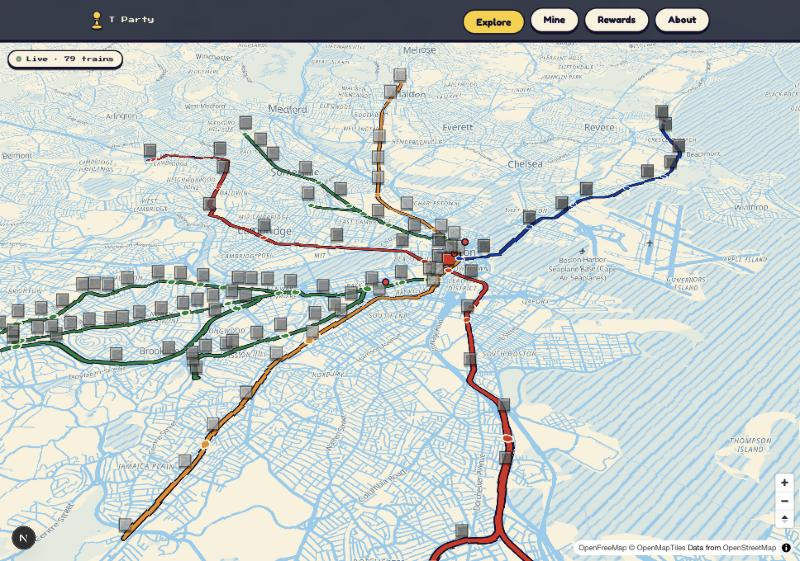
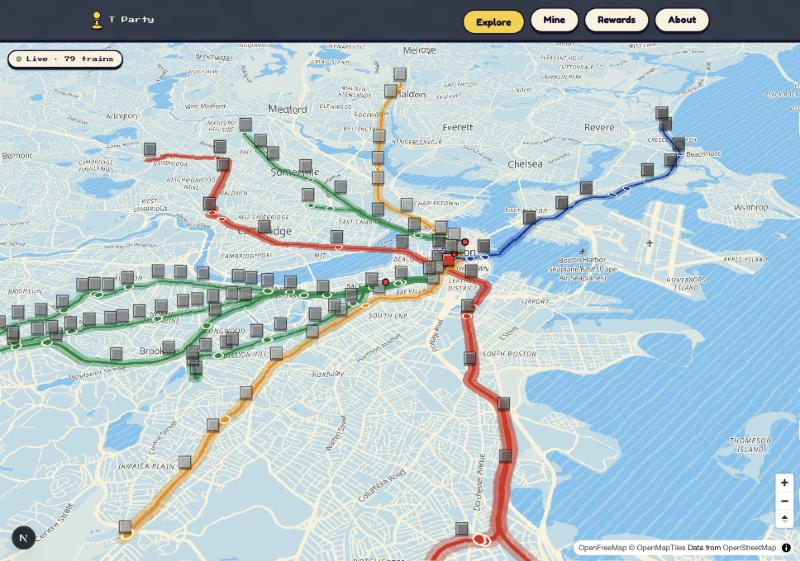
Explore: illustrated-map base, highlighter T lines, hospital stickers
- Base: tinted land with paper streets, deeper-tone scribbled water, flat
  building footprints (BUILDINGS_3D switch), all from one token colour.
- T lines: wide translucent highlighter stroke plus a solid core.
- Stickers: hospitals from the tiles' poi layer with a drawn cross badge.

diff --git a/src/lib/map.ts b/src/lib/map.ts
@@ -63,50 +63,60 @@ function blend(from: string, to: string, amount: number): string {
 const BASE_TONE = "--sky";
 
 /**
- * The base map: OpenFreeMap streets redrawn as a one-colour line drawing on paper, with 3D buildings.
+ * Buildings as raised 3D blocks (true) or flat footprints (false).
+ * Flat keeps the base calm, like an illustrated city map, so the 3D things we float on top stand out.
+ */
+const BUILDINGS_3D = false;
+
+/**
+ * The base map, in the manner of an illustrated city map: land is a soft block of one colour,
+ * streets are the paper showing through, water is a deeper shade of the same colour.
  * Every colour comes from a token in globals.css, so a theme change restyles the map too.
  */
 export async function loadMapStyle(): Promise<StyleSpecification> {
   const style: StyleSpecification = await fetch(BASE_STYLE).then((res) => res.json());
   const paper = tokenColor("--paper");
-  const wash = blend("--paper", BASE_TONE, 0.45); // water
-  const tint = blend("--paper", BASE_TONE, 0.14); // parks, buildings
-  const stroke = blend("--paper", BASE_TONE, 0.7); // streets
-  const text = blend(BASE_TONE, "--ink", 0.4); // labels: the same colour, darkened so they stay readable
+  const land = blend("--paper", BASE_TONE, 0.4);
+  const park = blend("--paper", BASE_TONE, 0.22);
+  const block = blend("--paper", BASE_TONE, 0.58); // building footprints
+  const water = blend("--paper", BASE_TONE, 0.85);
+  const text = blend(BASE_TONE, "--ink", 0.6); // labels: the same colour, darkened so they stay readable
 
   style.layers = style.layers.flatMap((layer): LayerSpecification[] => {
     const sourceLayer = "source-layer" in layer ? layer["source-layer"] : undefined;
 
-    if (layer.type === "background") return [{ ...layer, paint: { "background-color": paper } }];
+    if (layer.type === "background") return [{ ...layer, paint: { "background-color": land } }];
 
     if (layer.type === "fill") {
-      if (sourceLayer === "water") return [{ ...layer, paint: { "fill-color": wash } }];
-      if (sourceLayer === "park") return [{ ...layer, paint: { "fill-color": tint } }];
-      // Flat buildings are replaced by a 3D layer.
+      if (sourceLayer === "water") return [{ ...layer, paint: { "fill-color": water } }];
+      if (sourceLayer === "park") return [{ ...layer, paint: { "fill-color": park } }];
       if (sourceLayer === "building")
-        return [
-          {
-            id: "building-3d",
-            type: "fill-extrusion" as const,
-            source: layer.source,
-            "source-layer": "building",
-            minzoom: 13,
-            paint: {
-              "fill-extrusion-color": tint,
-              "fill-extrusion-height": ["coalesce", ["get", "render_height"], 6],
-              "fill-extrusion-base": ["coalesce", ["get", "render_min_height"], 0],
-              "fill-extrusion-opacity": 0.92,
-            },
-          },
-        ];
-      // Land-use patches would only add noise to a line drawing.
+        return BUILDINGS_3D
+          ? [
+              {
+                id: "building-3d",
+                type: "fill-extrusion" as const,
+                source: layer.source,
+                "source-layer": "building",
+                minzoom: 13,
+                paint: {
+                  "fill-extrusion-color": block,
+                  "fill-extrusion-height": ["coalesce", ["get", "render_height"], 6],
+                  "fill-extrusion-base": ["coalesce", ["get", "render_min_height"], 0],
+                  "fill-extrusion-opacity": 0.92,
+                },
+              },
+            ]
+          : [{ ...layer, minzoom: 13, paint: { "fill-color": block } }];
+      // Land-use patches would only add noise.
       return [];
     }
 
     if (layer.type === "line") {
       if (sourceLayer === "boundary" || layer.id.endsWith("_casing") || layer.id.endsWith("dashline")) return [];
-      if (sourceLayer === "waterway") return [{ ...layer, paint: { "line-color": wash } }];
-      return [{ ...layer, paint: { ...layer.paint, "line-color": stroke, "line-opacity": 1 } }];
+      if (sourceLayer === "waterway") return [{ ...layer, paint: { "line-color": water } }];
+      // Streets are the paper showing through the coloured land.
+      return [{ ...layer, paint: { ...layer.paint, "line-color": paper, "line-opacity": 1 } }];
     }
 
     if (layer.type === "symbol") {
@@ -118,7 +128,7 @@ export async function loadMapStyle(): Promise<StyleSpecification> {
     return [layer];
   });
 
-  // The 3D buildings sit above the streets but below the labels: move them just before the first label.
+  // 3D buildings sit above the streets but below the labels: move them just before the first label.
   const buildings = style.layers.filter((layer) => layer.id === "building-3d");
   const rest = style.layers.filter((layer) => layer.id !== "building-3d");
   const firstLabel = rest.findIndex((layer) => layer.type === "symbol");
@@ -138,9 +148,9 @@ export function addDoodleTextures(map: MapLibreMap) {
   canvas.width = canvas.height = size;
   const ctx = canvas.getContext("2d", { willReadFrequently: true });
   if (!ctx || map.hasImage("scribble")) return;
-  ctx.fillStyle = blend("--paper", BASE_TONE, 0.22);
+  ctx.fillStyle = blend("--paper", BASE_TONE, 0.85);
   ctx.fillRect(0, 0, size, size);
-  ctx.strokeStyle = blend("--paper", BASE_TONE, 0.75);
+  ctx.strokeStyle = blend("--paper", BASE_TONE, 0.55);
   ctx.lineCap = "round";
   // Slanted strokes of uneven weight, repeated past the edges so the tile joins up with itself.
   [0, 13, 29, 41, 54].forEach((offset, i) => {
@@ -157,32 +167,94 @@ export function addDoodleTextures(map: MapLibreMap) {
 }
 
 /**
+ * Things drawn on top of the realistic base, sticker style. First one: hospitals, straight from
+ * the map's own place data, each with a little hand-drawn cross badge. Call once the map has loaded.
+ * Add more kinds (schools, parks, libraries) the same way: draw a badge, filter the "poi" layer by class.
+ */
+export function addStickerLayers(map: MapLibreMap) {
+  if (map.getLayer("sticker-hospital")) return;
+  const size = 56;
+  const canvas = document.createElement("canvas");
+  canvas.width = canvas.height = size;
+  const ctx = canvas.getContext("2d", { willReadFrequently: true });
+  if (!ctx) return;
+  // A slightly crooked paper square with an ink edge and a red cross.
+  ctx.translate(size / 2, size / 2);
+  ctx.rotate(-0.08);
+  ctx.lineJoin = "round";
+  ctx.lineWidth = 4;
+  ctx.fillStyle = tokenColor("--paper");
+  ctx.strokeStyle = tokenColor("--ink");
+  ctx.beginPath();
+  ctx.roundRect(-20, -20, 40, 40, 9);
+  ctx.fill();
+  ctx.stroke();
+  ctx.strokeStyle = tokenColor("--cherry");
+  ctx.lineWidth = 8;
+  ctx.lineCap = "round";
+  ctx.beginPath();
+  ctx.moveTo(0, -10);
+  ctx.lineTo(0, 10);
+  ctx.moveTo(-10, 0);
+  ctx.lineTo(10, 0);
+  ctx.stroke();
+  ctx.resetTransform();
+  map.addImage("sticker-hospital", ctx.getImageData(0, 0, size, size), { pixelRatio: 2 });
+
+  map.addLayer({
+    id: "sticker-hospital",
+    type: "symbol",
+    source: "openmaptiles",
+    "source-layer": "poi",
+    filter: ["==", ["get", "class"], "hospital"],
+    layout: {
+      "icon-image": "sticker-hospital",
+      "icon-size": ["interpolate", ["linear"], ["zoom"], 11, 0.7, 15, 1.2],
+      "icon-allow-overlap": true,
+      "text-field": ["step", ["zoom"], "", 13.5, ["get", "name"]],
+      "text-font": ["Noto Sans Regular"],
+      "text-size": 11,
+      "text-offset": [0, 1.5],
+      "text-anchor": "top",
+      "text-optional": true,
+    },
+    paint: {
+      "text-color": tokenColor("--ink"),
+      "text-halo-color": tokenColor("--paper"),
+      "text-halo-width": 1.5,
+    },
+  });
+}
+
+/**
  * Doodle look, part 2: an SVG filter that nudges every pixel a little, so straight map lines
  * come out wobbly, as if drawn by hand. ExploreMap puts the filter on the page and points the map at it.
  */
 export const DOODLE_FILTER = { id: "doodle", frequency: 0.018, strength: 7 };
 
-/** Navy outline under each T line, the same "ink edge" the buttons and cards have. */
-export function tLineCasingLayer(): LayerProps {
-  return {
-    id: "t-lines-casing",
-    type: "line",
-    layout: { "line-cap": "round", "line-join": "round" },
-    paint: {
-      "line-color": tokenColor("--ink"),
-      "line-width": ["interpolate", ["linear"], ["zoom"], 10, 6, 14, 11],
-    },
-  };
-}
+/**
+ * T lines drawn like a highlighter pen: a wide see-through stroke in the line's official colour...
+ * Each feature carries that colour in a `color` property.
+ */
+export const T_LINE_HIGHLIGHT_LAYER: LayerProps = {
+  id: "t-lines-highlight",
+  type: "line",
+  layout: { "line-cap": "round", "line-join": "round" },
+  paint: {
+    "line-color": ["get", "color"],
+    "line-opacity": 0.38,
+    "line-width": ["interpolate", ["linear"], ["zoom"], 10, 11, 14, 24],
+  },
+};
 
-/** T lines. Each feature carries its official colour in a `color` property. */
+/** ...with a solid line of the same colour down the middle, so it still reads from far away. */
 export const T_LINE_LAYER: LayerProps = {
   id: "t-lines",
   type: "line",
   layout: { "line-cap": "round", "line-join": "round" },
   paint: {
     "line-color": ["get", "color"],
-    "line-width": ["interpolate", ["linear"], ["zoom"], 10, 3, 14, 7],
+    "line-width": ["interpolate", ["linear"], ["zoom"], 10, 3, 14, 6],
   },
 };
 

diff --git a/src/features/explore/ExploreMap.tsx b/src/features/explore/ExploreMap.tsx
@@ -9,15 +9,16 @@ import {
   Map,
   NavigationControl,
   Source,
+  T_LINE_HIGHLIGHT_LAYER,
   T_LINE_LAYER,
   DOODLE_FILTER,
   addDoodleTextures,
+  addStickerLayers,
   clearCameraPadding,
   flyToStation,
   initialView,
   loadMapStyle,
   shapesToGeoJSON,
-  tLineCasingLayer,
   type MapRef,
 } from "@/lib/map";
 import { cn } from "@/lib/utils";
@@ -86,8 +87,6 @@ export default function ExploreMap() {
     );
   }, [data]);
 
-  const casingLayer = useMemo(() => tLineCasingLayer(), []);
-
   const outagesByStation = useMemo(() => {
     const byStation = new globalThis.Map<string, string[]>();
     for (const outage of live?.outages ?? []) {
@@ -133,14 +132,17 @@ export default function ExploreMap() {
           maxPitch={MAX_PITCH}
           minZoom={MIN_ZOOM}
           style={{ width: "100%", height: "100%" }}
-          onLoad={(event) => addDoodleTextures(event.target)}
+          onLoad={(event) => {
+            addDoodleTextures(event.target);
+            addStickerLayers(event.target);
+          }}
           onMoveStart={() => setMoving(true)}
           onMoveEnd={() => setMoving(false)}
         >
           <NavigationControl position="bottom-right" visualizePitch />
           {lineGeoJSON && (
             <Source id="t-lines" type="geojson" data={lineGeoJSON}>
-              <Layer {...casingLayer} />
+              <Layer {...T_LINE_HIGHLIGHT_LAYER} />
               <Layer {...T_LINE_LAYER} />
             </Source>
           )}

diff --git a/src/features/explore/README.md b/src/features/explore/README.md
@@ -6,9 +6,13 @@ Issue: #2. Owner: Rachel. Only the owner edits this folder.
 ## How it fits together
 - `Explore.tsx`: just the map, full screen under the site nav, so other UI can be layered on top (server). `ExploreLoader.tsx`: loads the map in the browser only (`next/dynamic`, `ssr: false`).
 - `ExploreMap.tsx`: the map, the T lines, the markers. All map settings come from `src/lib/map.ts`.
-- The look: OpenFreeMap streets redrawn as a one-colour line drawing on cream paper (`loadMapStyle` in `src/lib/map.ts`),
-  with 3D buildings from zoom 13. Only the things on top are colourful. The one colour is `BASE_TONE` in that file:
-  `--sky` gives light blue (current), `--cherry` gives pink, `--steel` gives grey.
+- The look, in the manner of an illustrated city map (`loadMapStyle` in `src/lib/map.ts`): the real streets and buildings underneath,
+  in one colour. Land is a soft block of that colour, streets are the paper showing through, water is a deeper shade.
+  The one colour is `BASE_TONE`: `--sky` gives light blue (current), `--cherry` pink, `--steel` grey.
+  `BUILDINGS_3D` switches buildings between flat footprints (current) and raised blocks.
+- T lines are drawn like a highlighter pen: a wide see-through stroke with a solid line down the middle.
+- Stickers on top (`addStickerLayers`): hospitals from the map's own place data, each with a hand-drawn cross badge.
+  They appear from about zoom 14, where the map data carries places. More kinds can be added the same way.
 - `TrainsLayer.tsx`: live trains as dots in their line colour, gliding for two seconds after each update (every 15 seconds).
 - Elevator outages: a red dot on the marker and the MBTA's own alert text in the sheet. That station's challenge becomes "Elevator check".
 - Tapping a marker flies the camera down to the station.
